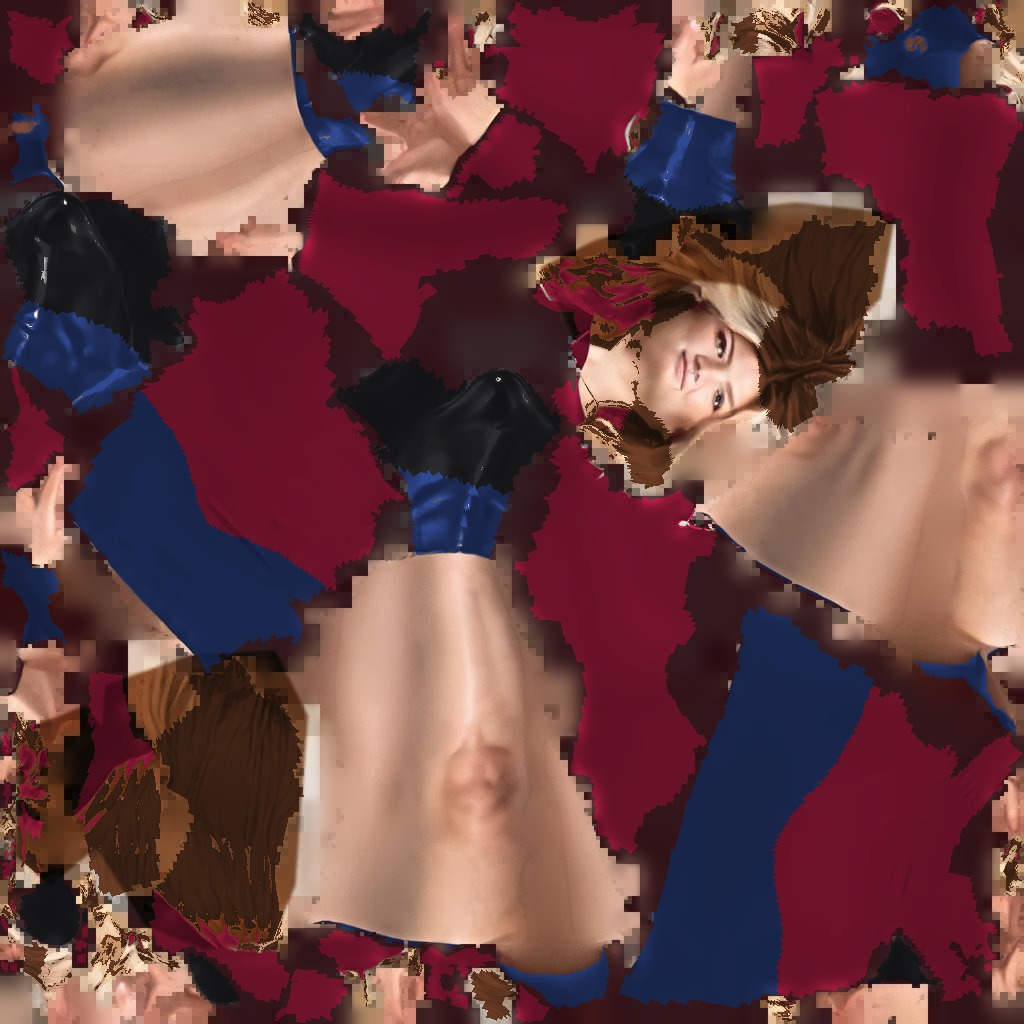
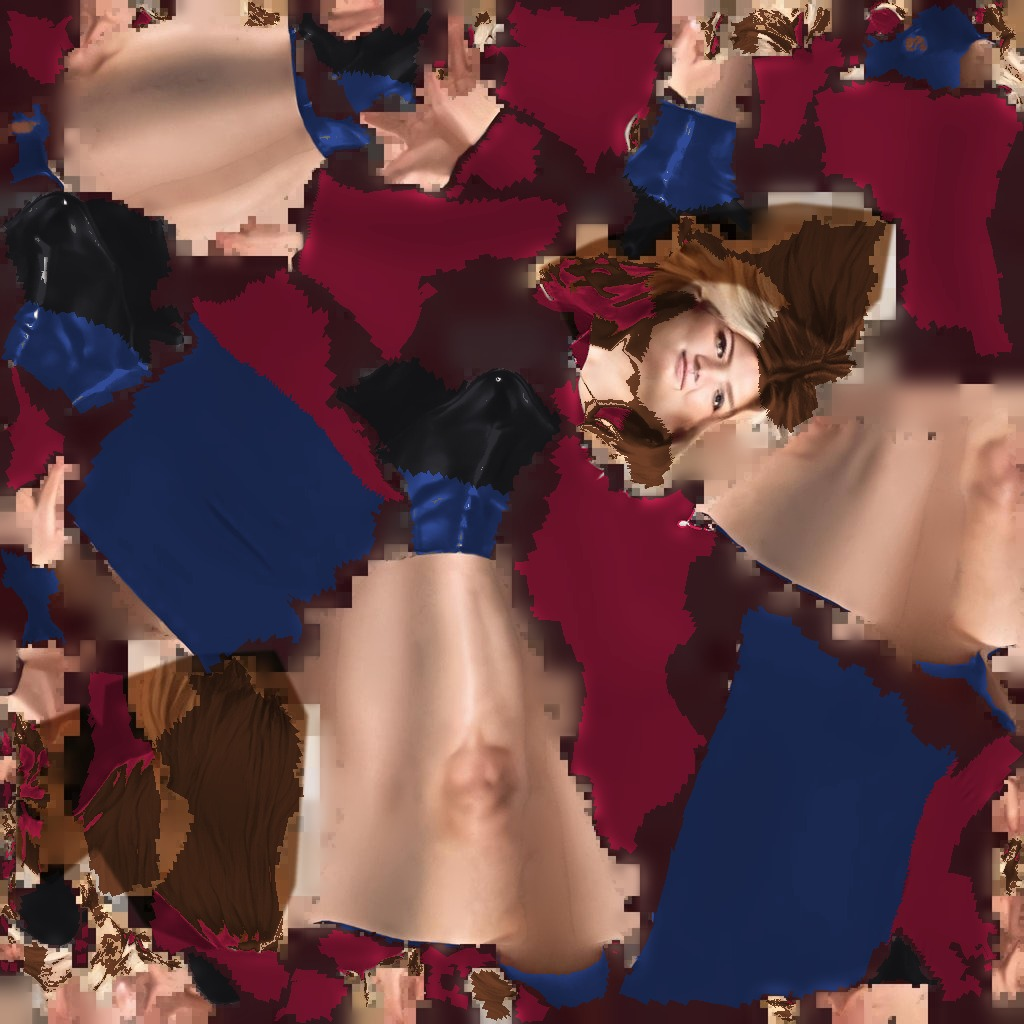
Crowd looks: skirt/trouser line follows the hips (no more top-colour dip), hair on the chest picked up more cleanly

diff --git a/cloud-club/app.html b/cloud-club/app.html
@@ -514,7 +514,7 @@ canvas.cv { position: absolute; pointer-events: none; }
 <script>/* ?mute: run the whole club silently (the sound still flows, so the crowd and lights react; only the speakers are cut) */
 if (/[?&]mute\b/.test(location.search)) { const orig = AudioNode.prototype.connect; AudioNode.prototype.connect = function (dest, ...a) { if (dest instanceof AudioDestinationNode) { const c = dest.context; if (!c.__mute) { c.__mute = c.createGain(); c.__mute.gain.value = 0; orig.call(c.__mute, dest); } orig.call(this, c.__mute, ...a); return dest; } return orig.call(this, dest, ...a); }; }</script>
 <script type="importmap">{ "imports": { "three": "https://cdn.jsdelivr.net/npm/three@0.178.0/build/three.module.js", "three/addons/": "https://cdn.jsdelivr.net/npm/three@0.178.0/examples/jsm/", "@sparkjsdev/spark": "https://cdn.jsdelivr.net/npm/@sparkjsdev/spark@0.1.10/dist/spark.module.js" } }</script>
-<script type="module" src="club.js?v=208"></script>
+<script type="module" src="club.js?v=209"></script>
 <script type="module" src="chat.js?v=124"></script>
 <script type="module" src="billing.js?v=23"></script>
 <script type="module" src="record.js?v=4"></script>

diff --git a/cloud-club/club.js b/cloud-club/club.js
@@ -1141,8 +1141,8 @@ async function loadCrowd() {
   const loader = new GLTFLoader();
   const reducedMotion = window.matchMedia('(prefers-reduced-motion: reduce)').matches;
   const [hairTextures, maleTextures, sources] = await Promise.all([
-    Promise.all(Array.from({length: 14}, (_, i) => new THREE.TextureLoader().loadAsync(`models/female_look_${i}.jpg?v=2`))),
-    Promise.all(Array.from({length: 6}, (_, i) => new THREE.TextureLoader().loadAsync(`models/male_look_${i}.jpg?v=2`))),
+    Promise.all(Array.from({length: 14}, (_, i) => new THREE.TextureLoader().loadAsync(`models/female_look_${i}.jpg?v=3`))),
+    Promise.all(Array.from({length: 6}, (_, i) => new THREE.TextureLoader().loadAsync(`models/male_look_${i}.jpg?v=3`))),
     Promise.all(['f', 'm'].map((sex) => loader.loadAsync(`models/new_crowd_${sex}.glb?v=1`))),
   ]);
   for (const texture of [...hairTextures, ...maleTextures]) { texture.flipY = false; texture.colorSpace = THREE.SRGBColorSpace; }

diff --git a/mixamo/base/recolor_looks.py b/mixamo/base/recolor_looks.py
@@ -80,7 +80,7 @@ for sex, n, hairs, tops, bots in (('f', 14, HAIR_F, TOPS_F, BOTS_F), ('m', 6, HA
         skinlike = (hue >= 0) & (hue < 52) & (sat > 0.10) & (sat < 0.85) & (val > 0.24)
         # hair: the head islands that are not the face, plus draped strands on the shoulders and chest (saturated gold/brown, different from the skin)
         head_hair = M[1] & ~M[2]
-        drape = M[7] & (val > 0.42) & (hue > 20) & (hue < 54) & (sat > 0.36) & (dskin > 0.10)
+        drape = M[7] & (val > 0.36) & (hue > 16) & (hue < 56) & (sat > 0.34) & (dskin > 0.08)
         hair = head_hair | drape
         img = recolour(img, hair, hairs[i % len(hairs)], spread=1.2, floor=0.25)
         # clothes: body islands and shoes that are dark or not warm-coloured (dresses, tees, trousers, boots), never skin or hair

diff --git a/mixamo/base/regions.py b/mixamo/base/regions.py
@@ -24,6 +24,7 @@ arms = sum(W[k] for k in W if ('Arm' in k or 'Hand' in k)) > 0.5
 upper = ~head & ~arms & (P[:, 2] > zmin - 0.40)       # 7: shoulders, chest and upper back, where long hair drapes
 lab[upper] = 7; lab[head] = 1; lab[face] = 2; lab[hand] = 3; lab[foot] = 4
 legs = sum(W.get(k, 0) for k in ('LeftUpLeg', 'RightUpLeg', 'LeftLeg', 'RightLeg')) > 0.5
+legs = legs | (W.get('Hips', 0) > 0.5)
 lab[legs & ~foot] = 8   # trousers or skirt
 neck = (W['Neck'] > 0.5) & ~head & (P[:, 2] > zmin - 0.10); lab[neck] = 6
 uv = me.uv_layers.active.data
